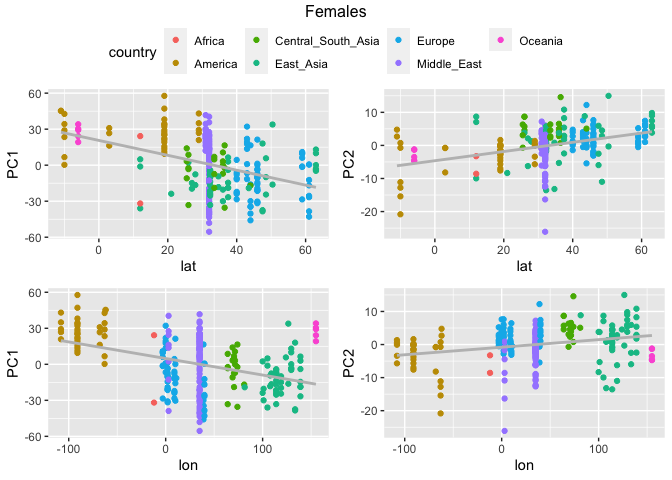
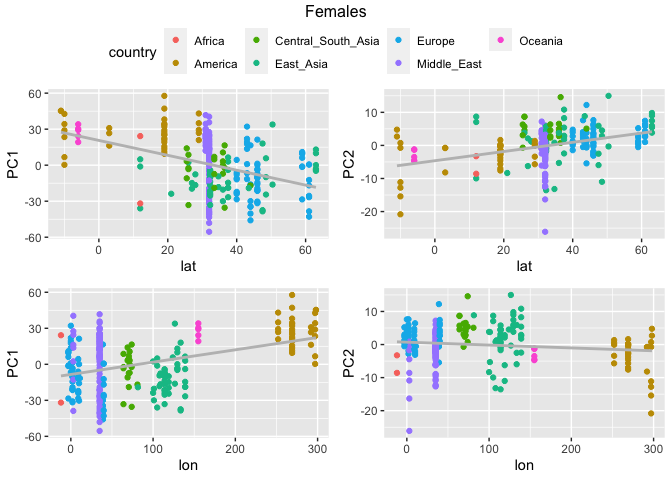
Update PCA copynumber
-

diff --git a/documentation/PCA/copynumber/05.coordinates.md b/documentation/PCA/copynumber/05.coordinates.md
@@ -74,7 +74,7 @@ HGDP_final <- filter(HGDP_pcr_free, ID %in% HGDP_nobiased_samples)
 ## Read coordinates file
 
 ``` r
-coordinates <- read_tsv("/Users/rpianezza/TE/summary-HGDP/HGDP_populationcoordinates.txt", col_names = c("pop", "region", "latitude", "longitude")) %>% select(pop, latitude, longitude)
+coordinates <- read_tsv("/Volumes/Temp1/rpianezza/PCA-copynumber-all-analysis/american-to-east.tsv", col_names = c("pop", "region", "latitude", "longitude")) %>% select(pop, latitude, longitude)
 ```
 
     ## Rows: 54 Columns: 4
@@ -88,6 +88,21 @@ coordinates <- read_tsv("/Users/rpianezza/TE/summary-HGDP/HGDP_populationcoordin
 
 ``` r
 data <- inner_join(coordinates, HGDP_final, by = "pop")
+
+distance_from_ooa <- read_tsv("/Volumes/Temp1/rpianezza/PCA-copynumber-all-analysis/dist-from-ooa.tsv", col_names = c("pop", "region", "distance")) %>% select(pop, distance)
+```
+
+    ## Rows: 54 Columns: 3
+    ## ── Column specification ────────────────────────────────────────────────────────
+    ## Delimiter: "\t"
+    ## chr (2): pop, region
+    ## dbl (1): distance
+    ## 
+    ## ℹ Use `spec()` to retrieve the full column specification for this data.
+    ## ℹ Specify the column types or set `show_col_types = FALSE` to quiet this message.
+
+``` r
+data_distance <- inner_join(distance_from_ooa, HGDP_final, by = "pop")
 ```
 
 # PCA on the filtered dataset
@@ -116,47 +131,111 @@ m_var2 <- summary(mHGDP.pca)$importance[2,2]
 
 m_processed <- mHGDP.pca$x %>% as_tibble() %>% select(c(PC1, PC2)) %>% mutate(ID = m_ID$ID, lat=m_ID$latitude, lon=m_ID$longitude, country=m_ID$country) %>% relocate(ID, .before = PC1)
 
+m_PC1_lat <- cor.test(m_processed$lat, m_processed$PC1, method = "spearman")
+m_PC2_lat <- cor.test(m_processed$lat, m_processed$PC2, method = "spearman")
+m_PC1_lon <- cor.test(m_processed$lon, m_processed$PC1, method = "spearman")
+m_PC2_lon <- cor.test(m_processed$lon, m_processed$PC2, method = "spearman")
+
+PC1_tibble <- tibble(sex = s, PC = 1, lat = m_PC1_lat$estimate, lon = m_PC1_lon$estimate, p_value = m_PC1_lat$p.value)
+PC2_tibble <- tibble(sex = s, PC = 2, lat = m_PC2_lat$estimate, lon = m_PC2_lon$estimate, p_value = m_PC2_lat$p.value)
+
+result_tibble <- bind_rows(PC1_tibble, PC2_tibble)
+
 m_PC1_lat <- m_processed %>% ggplot(aes(lat, PC1)) + geom_point(aes(color=country)) + geom_smooth(method = "lm", se = FALSE, color = "grey")
 m_PC2_lat <- m_processed %>% ggplot(aes(lat, PC2)) + geom_point(aes(color=country)) + geom_smooth(method = "lm", se = FALSE, color = "grey")
 m_PC1_lon <- m_processed %>% ggplot(aes(lon, PC1)) + geom_point(aes(color=country)) + geom_smooth(method = "lm", se = FALSE, color = "grey")
 m_PC2_lon <- m_processed %>% ggplot(aes(lon, PC2)) + geom_point(aes(color=country)) + geom_smooth(method = "lm", se = FALSE, color = "grey")
 
 figure <- ggarrange(m_PC1_lat, m_PC2_lat, m_PC1_lon, m_PC2_lon, ncol = 2, nrow = 2, common.legend = TRUE)
-annotate_figure(figure, top = title)
+image <- annotate_figure(figure, top = title)
+
+list(plot = image, tibble = result_tibble)
 }
 ```
 
 ``` r
-PCA_coord(data, "male", "Males")
+male_coord <- PCA_coord(data, "male", "Males")
 ```
+
+    ## Warning in cor.test.default(m_processed$lat, m_processed$PC1, method =
+    ## "spearman"): Cannot compute exact p-value with ties
+
+    ## Warning in cor.test.default(m_processed$lat, m_processed$PC2, method =
+    ## "spearman"): Cannot compute exact p-value with ties
+
+    ## Warning in cor.test.default(m_processed$lon, m_processed$PC1, method =
+    ## "spearman"): Cannot compute exact p-value with ties
+
+    ## Warning in cor.test.default(m_processed$lon, m_processed$PC2, method =
+    ## "spearman"): Cannot compute exact p-value with ties
 
     ## `geom_smooth()` using formula = 'y ~ x'
     ## `geom_smooth()` using formula = 'y ~ x'
     ## `geom_smooth()` using formula = 'y ~ x'
     ## `geom_smooth()` using formula = 'y ~ x'
     ## `geom_smooth()` using formula = 'y ~ x'
+
+``` r
+female_coord <- PCA_coord(data, "female", "Females")
+```
+
+    ## Warning in cor.test.default(m_processed$lat, m_processed$PC1, method =
+    ## "spearman"): Cannot compute exact p-value with ties
+
+    ## Warning in cor.test.default(m_processed$lat, m_processed$PC2, method =
+    ## "spearman"): Cannot compute exact p-value with ties
+
+    ## Warning in cor.test.default(m_processed$lon, m_processed$PC1, method =
+    ## "spearman"): Cannot compute exact p-value with ties
+
+    ## Warning in cor.test.default(m_processed$lon, m_processed$PC2, method =
+    ## "spearman"): Cannot compute exact p-value with ties
+
+    ## `geom_smooth()` using formula = 'y ~ x'
+    ## `geom_smooth()` using formula = 'y ~ x'
+    ## `geom_smooth()` using formula = 'y ~ x'
+    ## `geom_smooth()` using formula = 'y ~ x'
+    ## `geom_smooth()` using formula = 'y ~ x'
+
+``` r
+male_coord$plot
+```
 
 ![](05.coordinates_files/figure-gfm/unnamed-chunk-5-1.png)<!-- -->
 
 ``` r
-PCA_coord(data, "female", "Females")
+male_coord$tibble
 ```
 
-    ## `geom_smooth()` using formula = 'y ~ x'
-    ## `geom_smooth()` using formula = 'y ~ x'
-    ## `geom_smooth()` using formula = 'y ~ x'
-    ## `geom_smooth()` using formula = 'y ~ x'
-    ## `geom_smooth()` using formula = 'y ~ x'
+    ## # A tibble: 2 × 5
+    ##   sex      PC    lat    lon   p_value
+    ##   <chr> <dbl>  <dbl>  <dbl>     <dbl>
+    ## 1 male      1  0.162  0.198 0.00111  
+    ## 2 male      2 -0.194 -0.118 0.0000938
+
+``` r
+female_coord$plot
+```
 
 ![](05.coordinates_files/figure-gfm/unnamed-chunk-5-2.png)<!-- -->
 
-## Spearman’s Rank Correlation Coefficient for PCs and coordinates
+``` r
+female_coord$tibble
+```
+
+    ## # A tibble: 2 × 5
+    ##   sex       PC    lat      lon  p_value
+    ##   <chr>  <dbl>  <dbl>    <dbl>    <dbl>
+    ## 1 female     1 -0.478  0.199   7.00e-16
+    ## 2 female     2  0.398 -0.00764 4.98e-11
+
+## Correlation between PCs and distance from the OOA
 
 ``` r
-PCA_spear <- function(raw_data, s){
+PCA_distance <- function(raw_data, s, title){
 data <- filter(raw_data, type=="te")
-m <- filter(data, sex==s)
-m_ID <- select(m, ID, country, latitude, longitude) %>% distinct()
+m <- filter(data, sex==s, !(country %in% c("Africa","Oceania")))
+m_ID <- select(m, ID, country, distance) %>% distinct()
 fam <- length(unique(data$familyname))
 males <- length(unique(m$ID))
 
@@ -172,36 +251,114 @@ mHGDP.pca <- prcomp(m_fram, center = TRUE, scale = TRUE)
 m_var1 <- summary(mHGDP.pca)$importance[2,1]
 m_var2 <- summary(mHGDP.pca)$importance[2,2]
 
-m_processed <- mHGDP.pca$x %>% as_tibble() %>% select(c(PC1, PC2)) %>% mutate(ID = m_ID$ID, lat=m_ID$latitude, lon=m_ID$longitude, country=m_ID$country) %>% relocate(ID, .before = PC1)
+m_processed <- mHGDP.pca$x %>% as_tibble() %>% select(c(PC1, PC2)) %>% mutate(ID=m_ID$ID, distance=m_ID$distance, country=m_ID$country) %>% relocate(ID, .before = PC1)
 
-
-m_PC1_lat <- cor(m_processed$lat, m_processed$PC1, method = "spearman")
-m_PC2_lat <- cor(m_processed$lat, m_processed$PC2, method = "spearman")
-m_PC1_lon <- cor(m_processed$lon, m_processed$PC1, method = "spearman")
-m_PC2_lon <- cor(m_processed$lon, m_processed$PC2, method = "spearman")
-
-PC1_tibble <- tibble(sex = s, PC = 1, lat = m_PC1_lat, lon = m_PC1_lon)
-PC2_tibble <- tibble(sex = s, PC = 2, lat = m_PC2_lat, lon = m_PC2_lon)
-(result_tibble <- bind_rows(PC1_tibble, PC2_tibble))
-}
+m_PC1 <- cor.test(m_processed$distance, m_processed$PC1, method = "spearman")
+m_PC2 <- cor.test(m_processed$distance, m_processed$PC2, method = "spearman")
+  
+  PC1_tibble <- tibble(sex = s, PC = 1, coeff = m_PC1$estimate, p_value = m_PC1$p.value)
+  PC2_tibble <- tibble(sex = s, PC = 2, coeff = m_PC2$estimate, p_value = m_PC2$p.value)
+  
+  result_tibble <- bind_rows(PC1_tibble, PC2_tibble)
+  
+  m_PC1 <- m_processed %>% ggplot(aes(distance, PC1)) + 
+    geom_point(aes(color=country)) + 
+    geom_smooth(method = "lm", se = FALSE, color = "grey") + 
+    scale_color_manual(values=c("America"="#C49A00", "Central_South_Asia"="#53B400", 
+                                "East_Asia"="#00C094", "Europe"="#00B6EB", 
+                                "Middle_East"="#A58AFF"))
+  
+  m_PC2 <- m_processed %>% ggplot(aes(distance, PC2)) + 
+    geom_point(aes(color=country)) + 
+    geom_smooth(method = "lm", se = FALSE, color = "grey") + 
+    scale_color_manual(values=c("America"="#C49A00", "Central_South_Asia"="#53B400", 
+                                "East_Asia"="#00C094", "Europe"="#00B6EB", 
+                                "Middle_East"="#A58AFF"))
+  
+  figure <- ggarrange(m_PC1, m_PC2, ncol = 2, common.legend = TRUE)
+  image <- annotate_figure(figure, top = title)
+  
+  list(plot = image, tibble = result_tibble)
+  }
 ```
 
 ``` r
-PCA_spear(data, "male")
+dist_males <- PCA_distance(data_distance, "male", "Males")
 ```
 
-    ## # A tibble: 2 × 4
-    ##   sex      PC    lat    lon
-    ##   <chr> <dbl>  <dbl>  <dbl>
-    ## 1 male      1  0.162  0.279
-    ## 2 male      2 -0.194 -0.145
+    ## Warning in cor.test.default(m_processed$distance, m_processed$PC1, method =
+    ## "spearman"): Cannot compute exact p-value with ties
+
+    ## Warning in cor.test.default(m_processed$distance, m_processed$PC2, method =
+    ## "spearman"): Cannot compute exact p-value with ties
+
+    ## `geom_smooth()` using formula = 'y ~ x'
+    ## `geom_smooth()` using formula = 'y ~ x'
+    ## `geom_smooth()` using formula = 'y ~ x'
 
 ``` r
-PCA_spear(data, "female")
+dist_females <- PCA_distance(data_distance, "female", "Females")
+```
+
+    ## Warning in cor.test.default(m_processed$distance, m_processed$PC1, method =
+    ## "spearman"): Cannot compute exact p-value with ties
+
+    ## Warning in cor.test.default(m_processed$distance, m_processed$PC1, method =
+    ## "spearman"): Cannot compute exact p-value with ties
+
+    ## `geom_smooth()` using formula = 'y ~ x'
+    ## `geom_smooth()` using formula = 'y ~ x'
+    ## `geom_smooth()` using formula = 'y ~ x'
+
+``` r
+dist_males$plot
+```
+
+![](05.coordinates_files/figure-gfm/unnamed-chunk-7-1.png)<!-- -->
+
+``` r
+dist_males$tibble
 ```
 
     ## # A tibble: 2 × 4
-    ##   sex       PC    lat    lon
-    ##   <chr>  <dbl>  <dbl>  <dbl>
-    ## 1 female     1 -0.478 -0.357
-    ## 2 female     2  0.398  0.290
+    ##   sex      PC  coeff     p_value
+    ##   <chr> <dbl>  <dbl>       <dbl>
+    ## 1 male      1  0.248 0.000000847
+    ## 2 male      2 -0.128 0.0119
+
+``` r
+dist_females$plot
+```
+
+![](05.coordinates_files/figure-gfm/unnamed-chunk-7-2.png)<!-- -->
+
+``` r
+dist_females$tibble
+```
+
+    ## # A tibble: 2 × 4
+    ##   sex       PC  coeff p_value
+    ##   <chr>  <dbl>  <dbl>   <dbl>
+    ## 1 female     1 0.0899   0.160
+    ## 2 female     2 0.100    0.117
+
+``` r
+library(scales)
+```
+
+    ## 
+    ## Attaching package: 'scales'
+
+    ## The following object is masked from 'package:purrr':
+    ## 
+    ##     discard
+
+    ## The following object is masked from 'package:readr':
+    ## 
+    ##     col_factor
+
+``` r
+show_col(hue_pal()(7))
+```
+
+![](05.coordinates_files/figure-gfm/unnamed-chunk-8-1.png)<!-- -->
